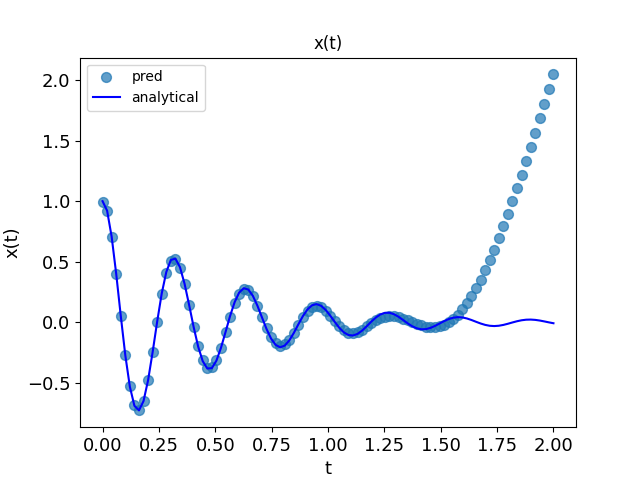
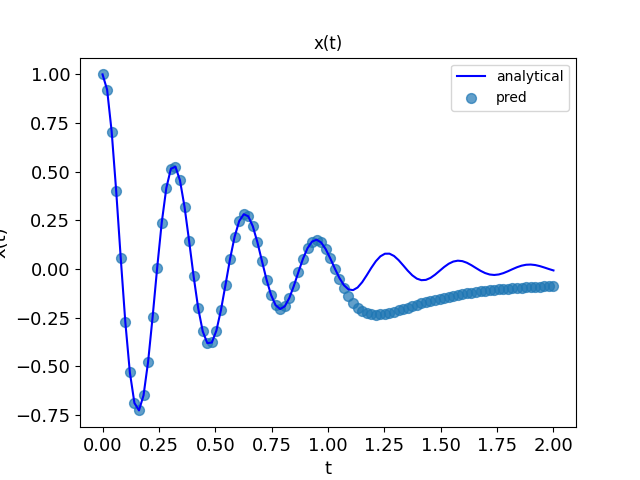
adam and LBFGS

diff --git a/harmonic_oscillator_damped.py b/harmonic_oscillator_damped.py
@@ -63,11 +63,31 @@ def fullLoss(t):
     loss = lossPDE(t) + 1e3*lossBC(t)
     return loss
 
+def l2_metric(predicted, target):
+    """
+    Вычисление L2-нормы ошибки между предсказанными и целевыми значениями.
+
+    Параметры:
+        predicted (torch.Tensor): Предсказанные значения нейросети.
+        target (torch.Tensor): Истинные значения.
+
+    Возвращает:
+        torch.Tensor: L2-норма ошибки.
+    """
+    # Вычисляем квадрат разности
+    diff = predicted - target
+    # L2-норма: берем квадрат и усредняем по всем точкам, затем извлекаем корень
+    l2_norm = torch.sqrt(torch.mean(diff ** 2))
+    return l2_norm
+
 def printValue():
     t = torch.linspace(0, 2, 100).unsqueeze(-1).unsqueeze(0).to(device)
     t.requires_grad = True
     x_true = exact_solution(t)
     x_pred = model(t.float())
+
+    l2_error = l2_metric(x_pred,t)
+    print("L2 metric:", l2_error.item())
     
     x_pred_move = x_pred.detach().cpu().numpy().flatten().tolist()
     x_true_move = x_true.detach().cpu().numpy().flatten().tolist()
@@ -107,9 +127,8 @@ def startTraining(input_size=1,
                   mapped_fourie=256):
     global model 
     # model = net.simpleModel(1, 1, 20, 100, loss_func=fullLoss, lr=0.1).to(device)
-    model = net.simpleModel(input_size, output_size, hidden_size, 
-                            epoch=epoch, loss_func=fullLoss, lr=lr, loss=loss,
-                            fourie=fourie, mapped_fourie=mapped_fourie).to(device)
+    model = net.simpleModel(
+                            epoch=epoch, loss_func=fullLoss).to(device)
 
 
     # t = (torch.linspace(0, 2, 100).unsqueeze(1)).to(device)
@@ -119,7 +138,7 @@ def startTraining(input_size=1,
     model.training_a(t)
 
 if __name__ == "__main__":
-    startTraining(right_brdr=1.5, hidden_size=64, epoch=500, dot_cnt=100)
+    startTraining(epoch=900)
     printValue()
 
 #adam, 3 слоя спрятанных

diff --git a/neural_network.py b/neural_network.py
@@ -43,7 +43,7 @@ class simpleModel(nn.Module):
                 epoch=900,
                 loss=nn.MSELoss(),
                 loss_func=None,  # <- обновлено, чтобы loss_func работала корректно
-                lr=0.01,
+                lr=0.1,
                 fourie=False,
                 mapped_fourie=256):
         super().__init__()
@@ -89,10 +89,33 @@ class simpleModel(nn.Module):
         # yt = np_to_th(y)
 
         steps = self.epoch
-        pbar = tqdm(range(steps), desc='Training Progress')
+        pbar = tqdm(range(600), desc='Training Progress')
         writer = SummaryWriter()
+        optimizer = torch.optim.Adam(self.parameters(), lr=0.001)
+        for step in pbar:
+            optimizer.zero_grad()
+            loss = self.loss_func(t)
+            loss.backward()
+            optimizer.step()
+            # def closure():
+            #     optimizer.zero_grad()
+            #     # outputs = self.forward(Xt)
+            #     # loss = self.loss(yt, outputs)
+            #     # loss += self.loss_func(t)  # <- используем loss_func корректно
+            #     loss = self.loss_func(t)
+            #     loss.backward()
+            #     return loss
+
+            # optimizer.step(closure)
+            if step % 2 == 0:
+                # current_loss = closure().item()
+                current_loss = loss.item()
+                pbar.set_description("Step: %d | Loss: %.6f" %
+                                     (step, current_loss))
+                writer.add_scalar('Loss/train', current_loss, step)
+            
+        pbar = tqdm(range(601,steps), desc='Training Progress')
         optimizer = torch.optim.LBFGS(self.parameters(), self.lr)
-        # optimizer = torch.optim.Adam(self.parameters, self.lr)
         for step in pbar:
             def closure():
                 optimizer.zero_grad()
